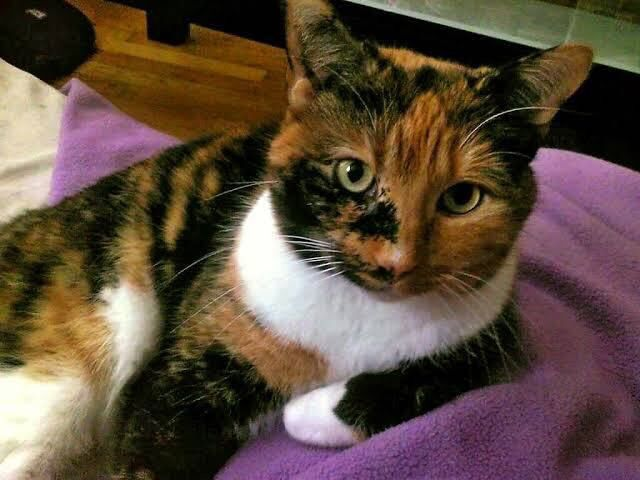
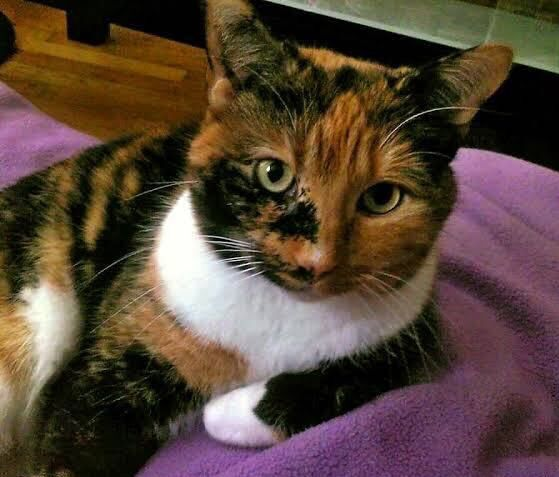
Added leorio

diff --git a/README.md b/README.md
@@ -4,3 +4,5 @@ If you are able to view this page, then my RaspberryPi is running fine, serving 
 
 ![avatar](https://images.weserv.nl/?url=https://raw.githubusercontent.com/shashank-mugiwara/breaksignal/website-structure/images/shashankj.jpeg?v=4&h=300&w=300&fit=cover&mask=circle&maxage=7d
 )
+![avatar](https://images.weserv.nl/?url=https://raw.githubusercontent.com/shashank-mugiwara/breaksignal/website-structure/images/leorio.jpeg?v=4&h=300&w=300&fit=cover&mask=circle&maxage=7d
+)
